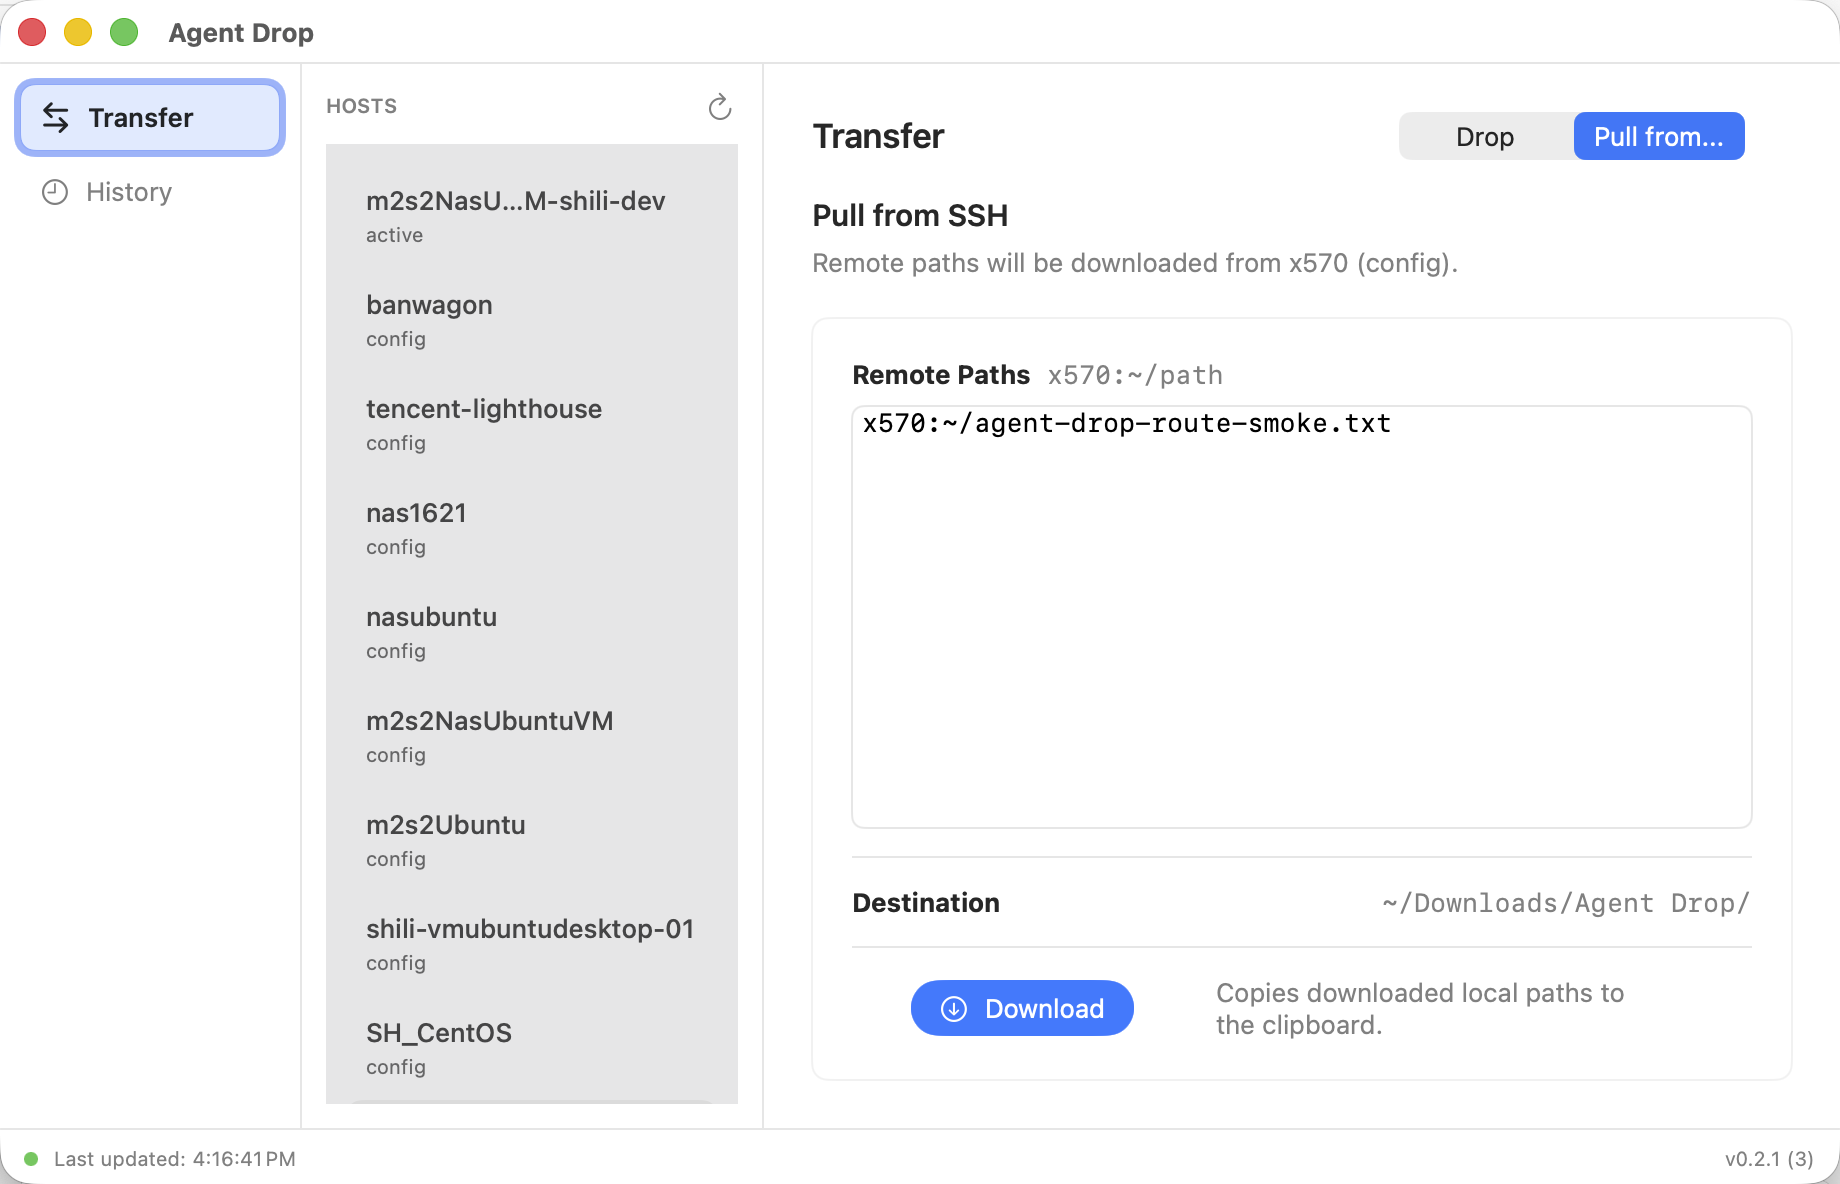
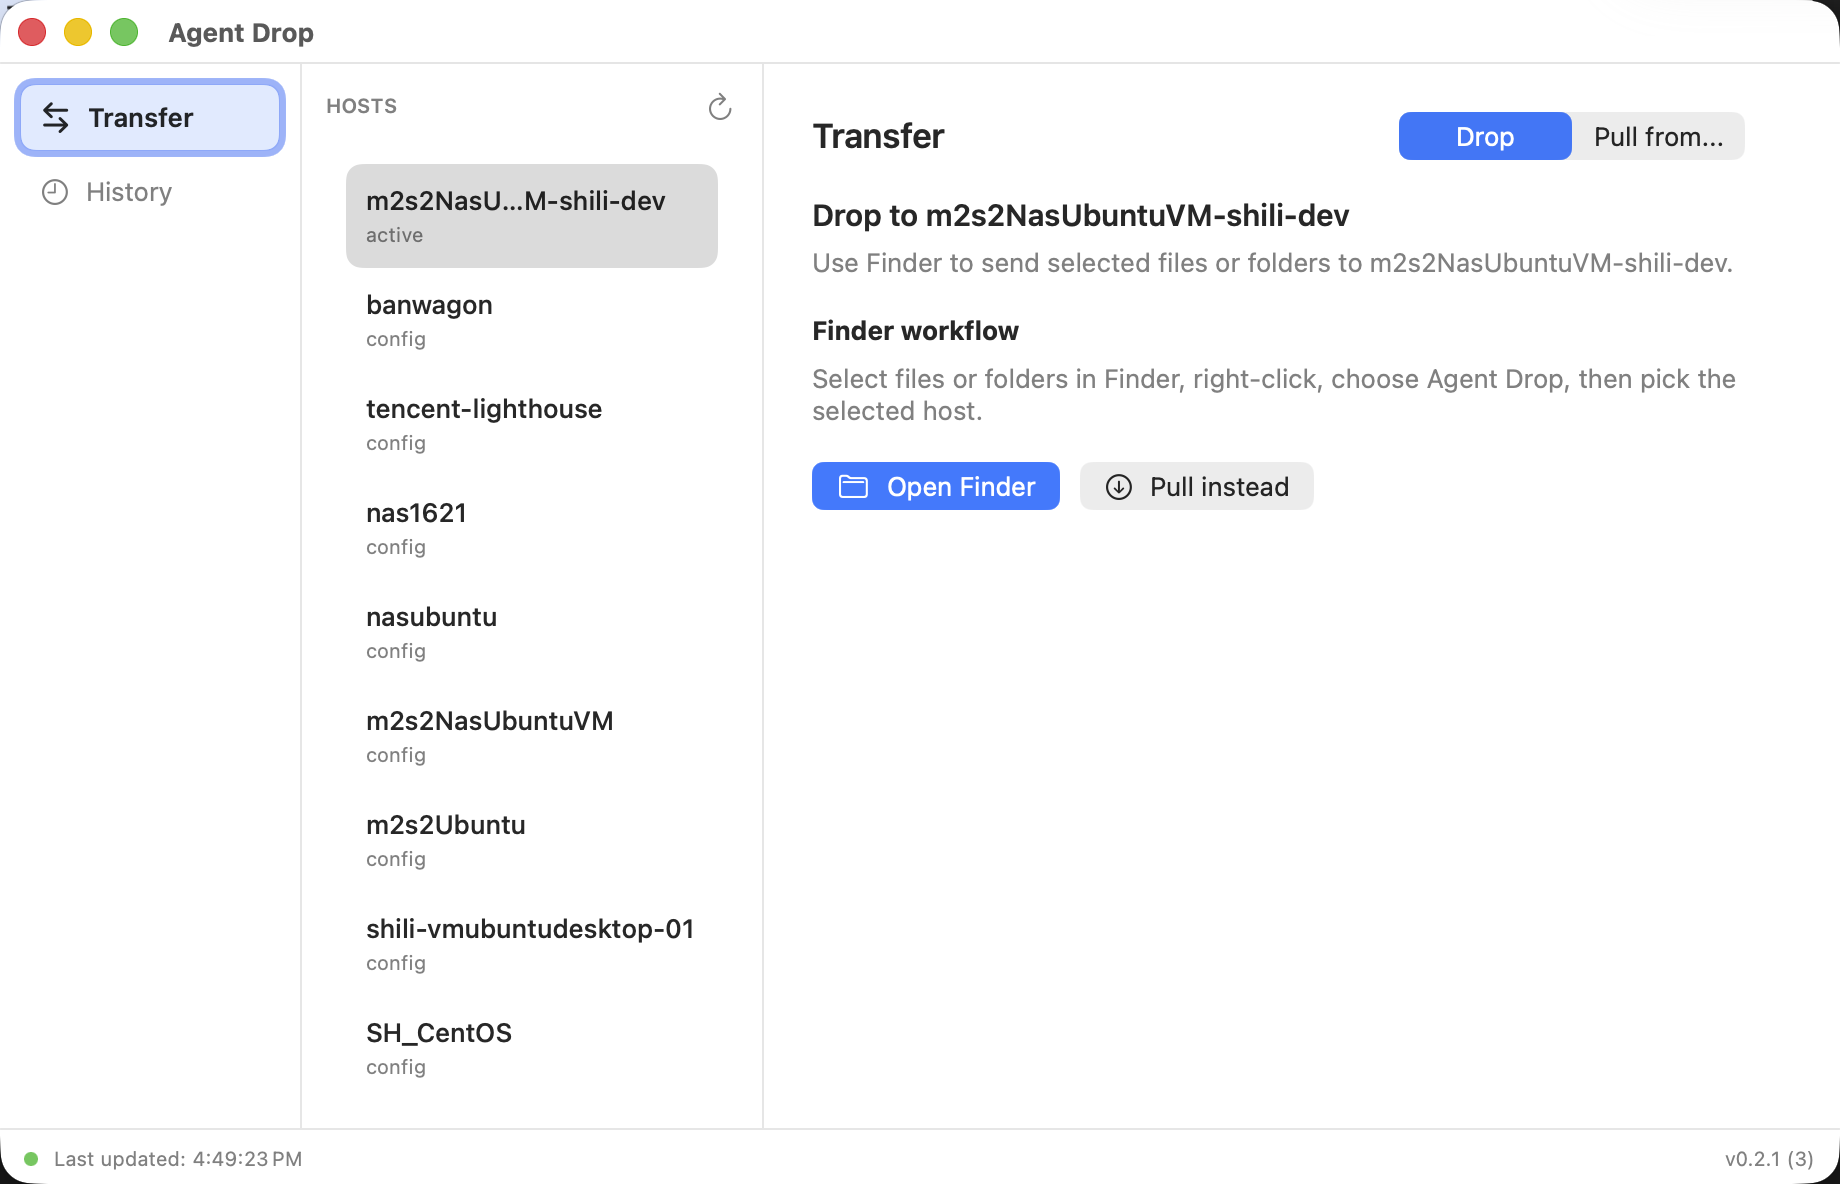
fix: align hosts list background

diff --git a/Sources/AgentDropApp/AgentDropApp.swift b/Sources/AgentDropApp/AgentDropApp.swift
@@ -320,6 +320,8 @@ private struct HostListView: View {
                     }
                 }
                 .listStyle(.sidebar)
+                .scrollContentBackground(.hidden)
+                .background(Color(nsColor: .windowBackgroundColor))
             }
         }
         .padding(12)
